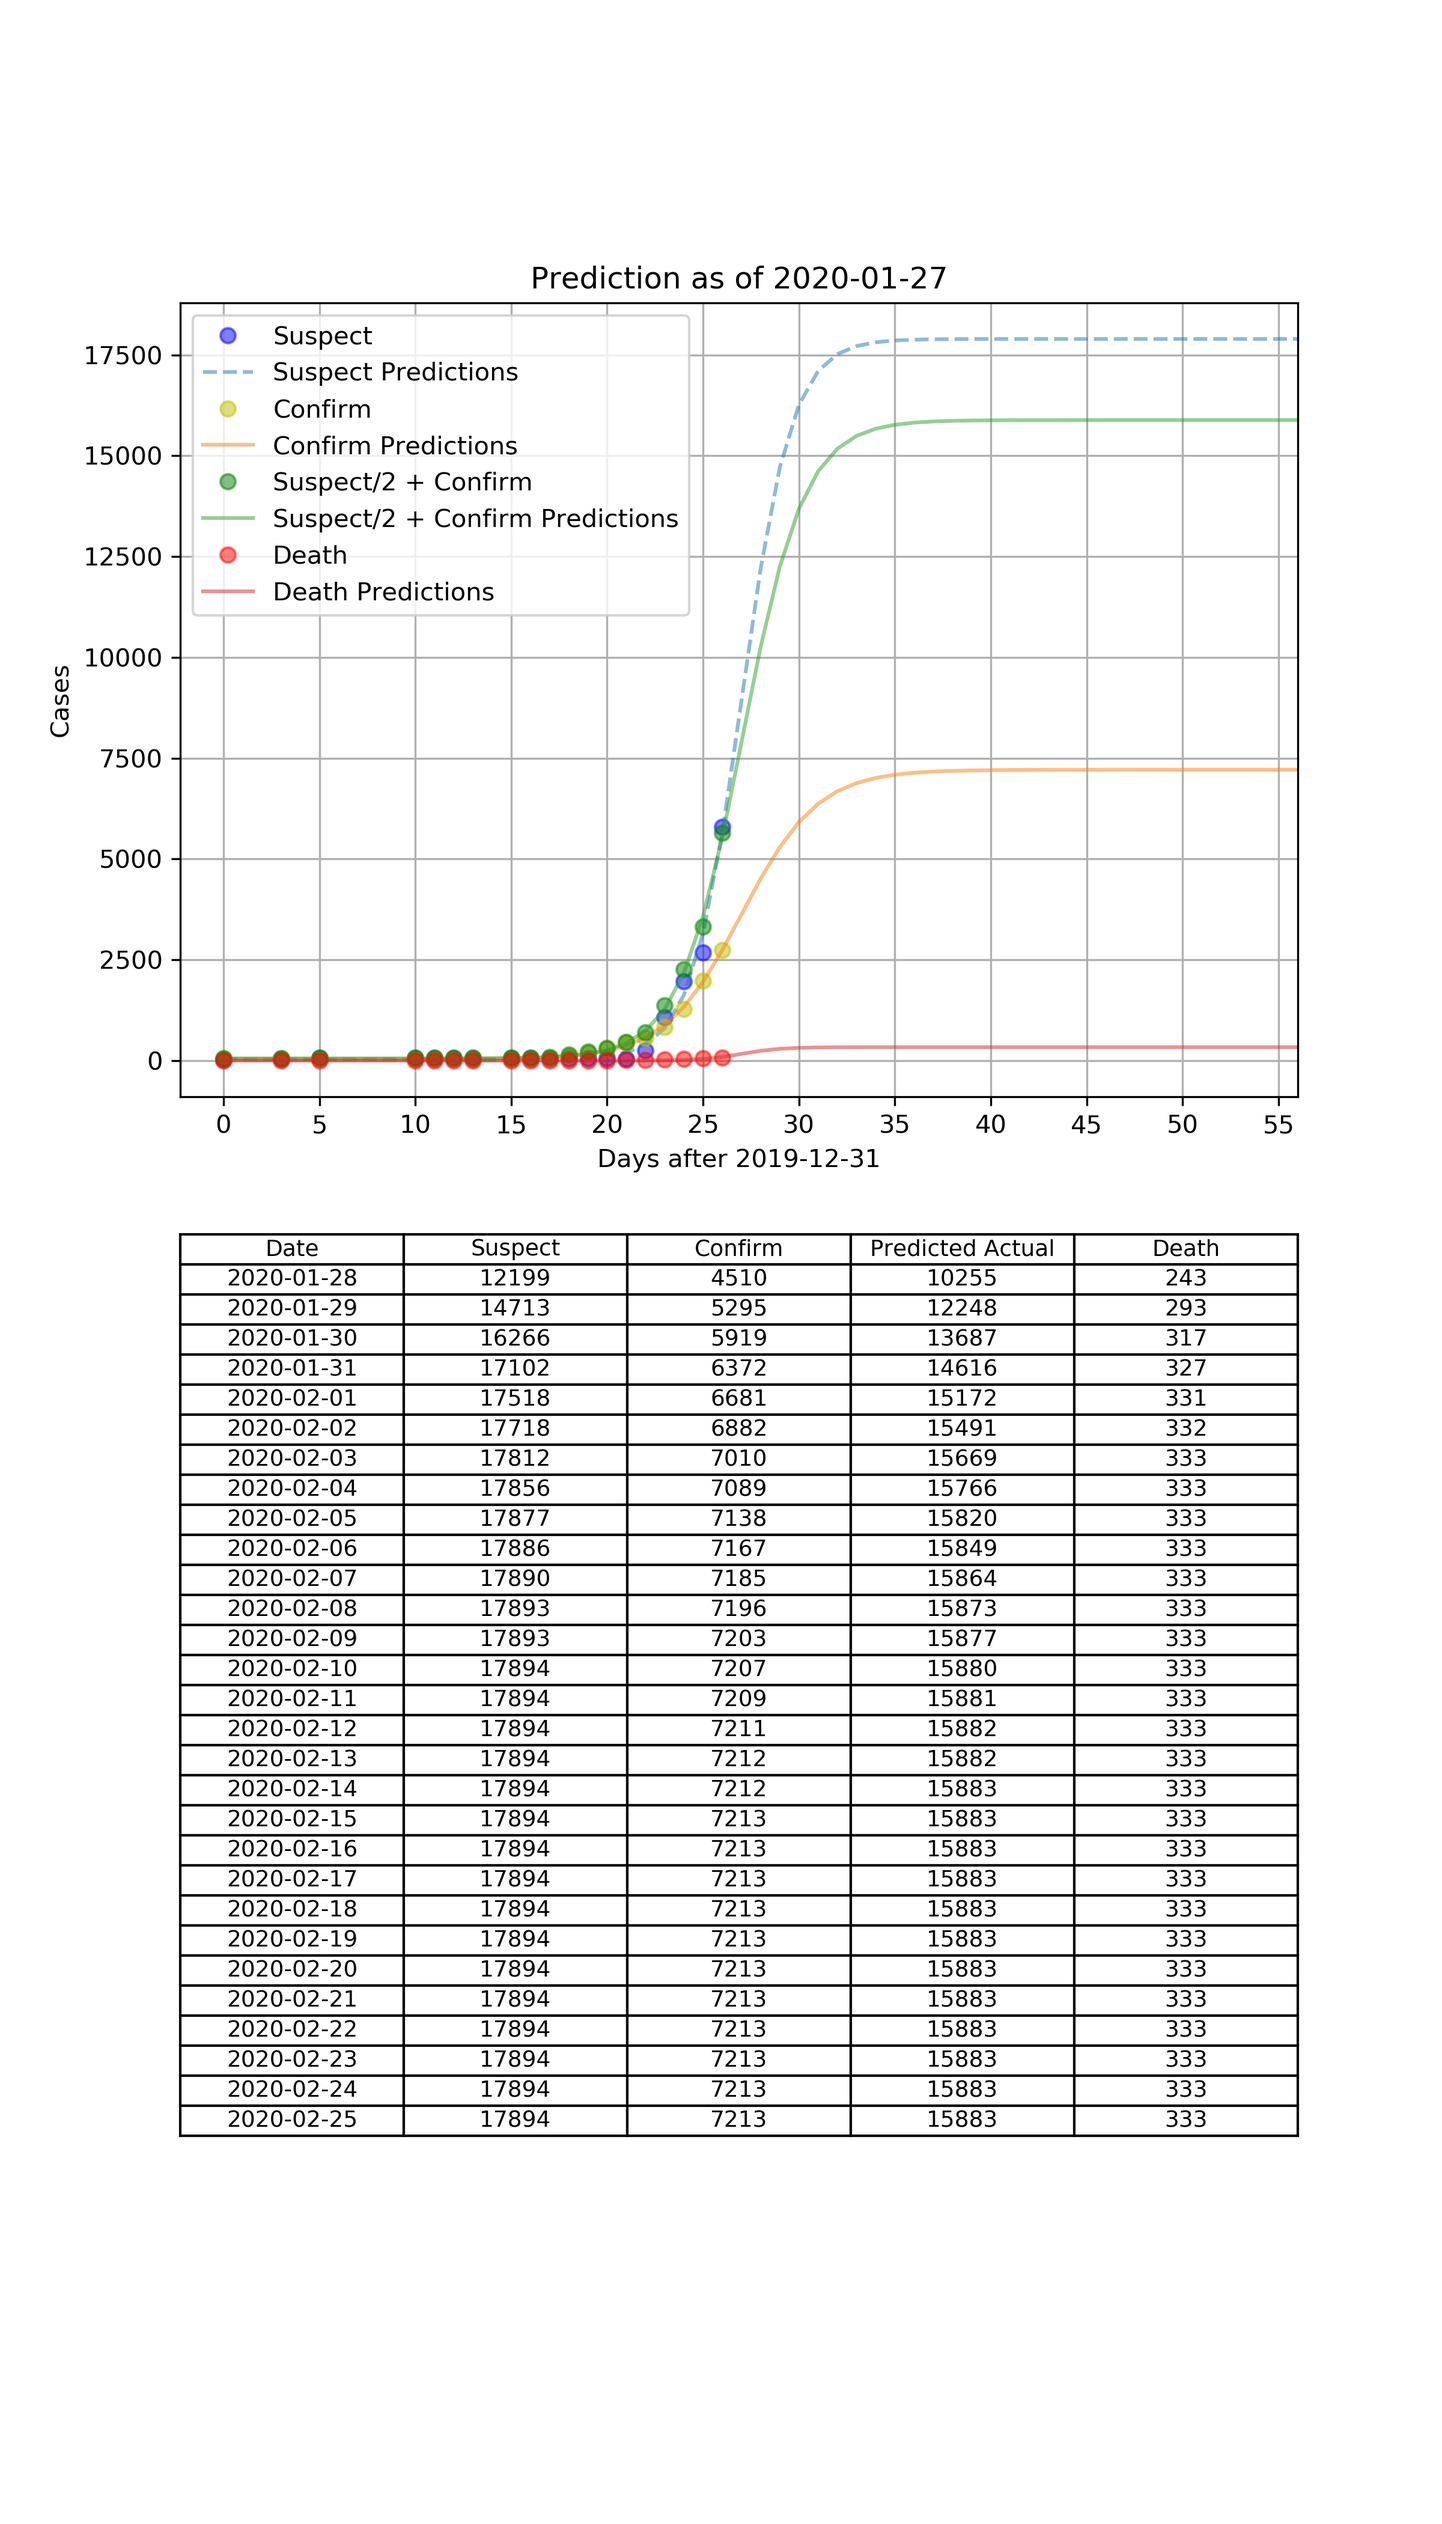
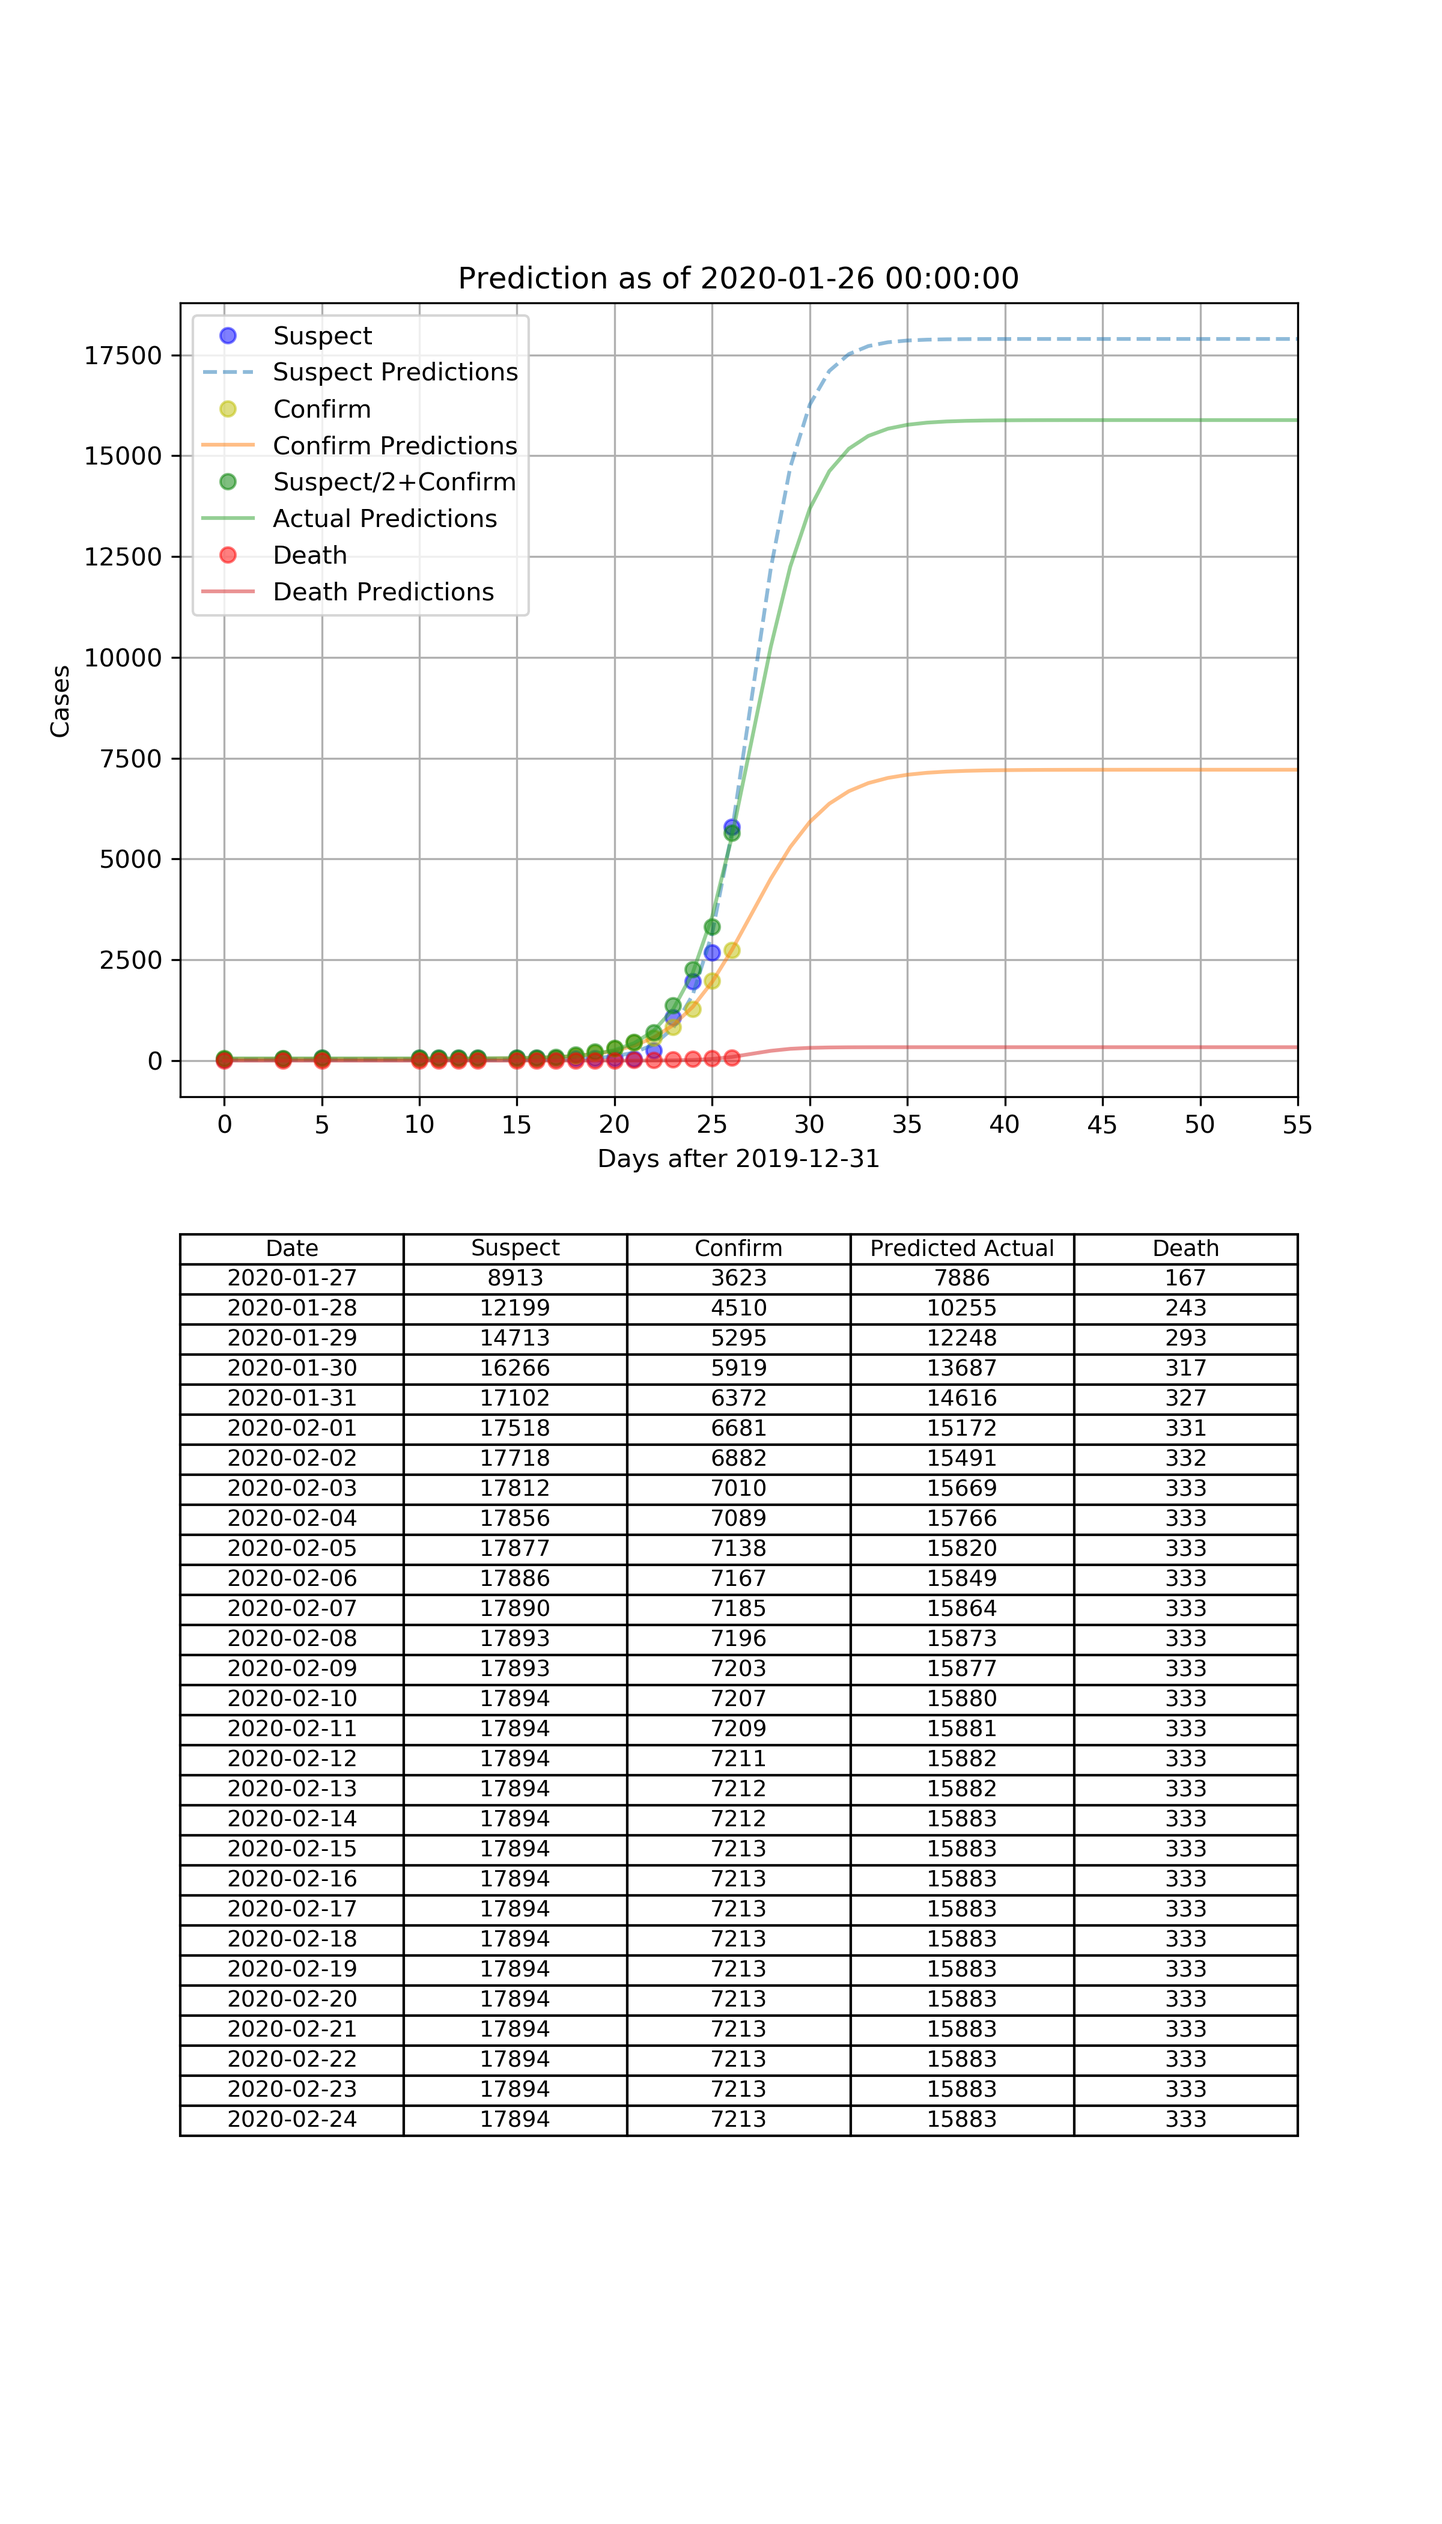
fixed date

diff --git a/2019_nCoV.py b/2019_nCoV.py
@@ -9,9 +9,9 @@ info_frame = pd.read_csv('data/2019-nCoV.csv')
 info_frame.fillna(method='ffill', inplace=True)
 info_frame.fillna(method='bfill', inplace=True)
 init_date = datetime.strptime(info_frame['Date CST'][0], '%Y.%m.%d')
-today_days = (datetime.now() - init_date).days
+today_date = datetime.strptime(info_frame['Date CST'].iloc[-1], '%Y.%m.%d')
+today_days = (today_date - init_date).days
 info_frame['Date CST'] = info_frame['Date CST'].apply(lambda x: (datetime.strptime(x, '%Y.%m.%d') - init_date).days)
-
 X = info_frame['Date CST'].to_numpy()
 X = np.array(X, dtype=np.float32)
 X = X.reshape(-1, 1)
@@ -93,10 +93,10 @@ def trainModel(model, X, y):
         last_loss = loss
 
 
-sModel = SigmoidRegression(Ys[0][-1] * 2, 27, 1, today_days)
-cModel = SigmoidRegression(Ys[1][-1] * 2, 41, 1, today_days)
-scModel = SigmoidRegression((Ys[0] / 2 + Ys[1])[-1] * 2, 55, 1, today_days)
-dModel = SigmoidRegression(Ys[2][-1] * 2, 0, 1, today_days)
+sModel = SigmoidRegression(Ys[0][-1] * 2, 27, 1, today_days + 1)
+cModel = SigmoidRegression(Ys[1][-1] * 2, 41, 1, today_days + 1)
+scModel = SigmoidRegression((Ys[0] / 2 + Ys[1])[-1] * 2, 55, 1, today_days + 1)
+dModel = SigmoidRegression(Ys[2][-1] * 2, 0, 1, today_days + 1)
 
 trainModel(sModel, X, np.array(Ys[0], dtype=np.float32))
 trainModel(cModel, X, np.array(Ys[1], dtype=np.float32))
@@ -123,7 +123,7 @@ axs = [None, None]
 axs[0] = plt.subplot(gs[:5, :])
 axs[1] = plt.subplot(gs[5:, :])
 
-axs[0].title.set_text('Prediction as of {}'.format(str(datetime.now().date())))
+axs[0].title.set_text('Prediction as of {}'.format(str(today_date)))
 
 collabel = ("Date", "Suspect", "Confirm", "Predicted Actual", "Death")
 axs[1].axis('tight')
@@ -134,7 +134,7 @@ the_table = axs[1].table(
                        np.round(cpredicted).astype(int),
                        np.round(scP).astype(int),
                        np.round(dP).astype(int)], dtype=str).transpose()
-    [today_days + 1: today_days + 30],
+    [today_days + 1: today_days + 31],
     colLabels=collabel,
     cellLoc='center',
     loc='center')
@@ -148,8 +148,8 @@ axs[0].plot(np.arange(today_days + 30), spredicted, '--', label='Suspect Predict
 axs[0].plot(X, Ys[1], 'yo', label='Confirm', alpha=0.5)
 axs[0].plot(np.arange(today_days + 30), cpredicted, '-', label='Confirm Predictions', alpha=0.5)
 
-axs[0].plot(X, Ys[0] / 2 + Ys[1], 'go', label='Suspect/2 + Confirm', alpha=0.5)
-axs[0].plot(np.arange(today_days + 30), scP, '-', label='Suspect/2 + Confirm Predictions', alpha=0.5)
+axs[0].plot(X, Ys[0] / 2 + Ys[1], 'go', label='Suspect/2+Confirm', alpha=0.5)
+axs[0].plot(np.arange(today_days + 30), scP, '-', label='Actual Predictions', alpha=0.5)
 
 axs[0].plot(X, Ys[2], 'ro', label='Death', alpha=0.5)
 axs[0].plot(np.arange(today_days + 30), dP, '-', label='Death Predictions', alpha=0.5)
